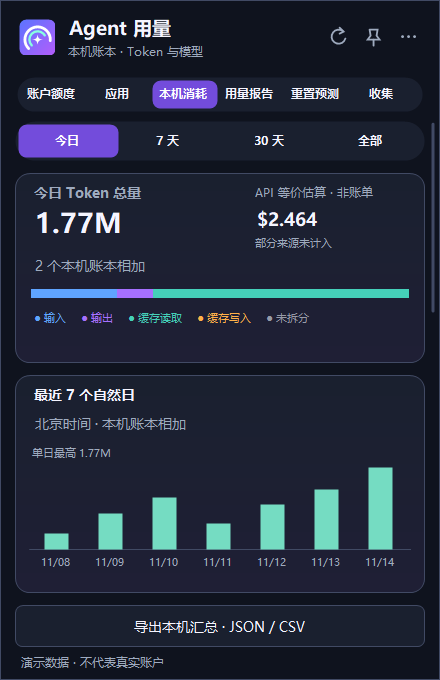
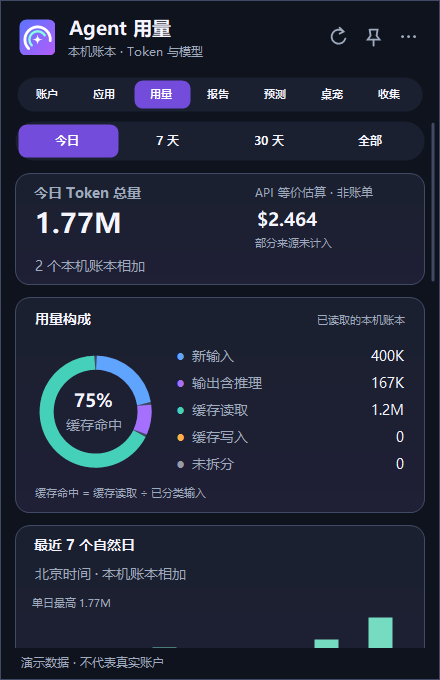
更新 Alpha 37 用量构成与验证说明

diff --git a/windows/PORT_PLAN.md b/windows/PORT_PLAN.md
@@ -8,7 +8,7 @@
 | --- | --- | --- |
 | 托盘入口、余量与交互 | 无边框弹层、外部点击及 Esc 收起、固定与更多菜单；数字图标可选来源或自动最低余量，过期数据回退；额度环超过四个时分页切换；细滚动轨道独立裁剪并验证拖动 | 实机验证隐藏图标、菜单、圆角阴影、退出清理、多屏和高 DPI；继续打磨小尺寸表现 |
 | 账户额度 | Codex 已在本机实测；Kimi 本地服务、Claude Code 凭据、MiniMax 和 DeepSeek API 余额通过模拟测试；已加入默认关闭的 WorkBuddy 独立网页登录及积分查询，主动输入密钥的智谱和火山方舟 Coding Plan 额度，以及独立网页登录的 MiMo 平台余额和套餐（模拟验证） | 验证托盘开关交互及真实 Windows 账户和 WorkBuddy 登录；Qoder 中国区独立网页登录和只读额度已模拟验证，真实登录尚待验收；TRAE 中国区独立登录与只读额度正以模拟数据验证；继续适配即梦及其他原项目来源 |
-| 应用和本机消耗 | 多个本地账本、四个统计周期、模型排行、趋势及近 24 小时应用活动汇总已接入；额度、本机 Token、活动来源状态按应用汇总，并支持筛选和展开。应用页可见时单独刷新本机活动；Qoder 本机积分独立计量，并在账户页提供明确标注的本机消耗卡片 | 验证应用概览、定时刷新、趋势与排行界面；完善客户端路径、项目归因、历史导入和重复计数规则 |
+| 应用和本机消耗 | 多个本地账本、四个统计周期、Token 构成圆环、缓存命中、模型排行、趋势及近 24 小时应用活动汇总已接入；额度、本机 Token、活动来源状态按应用汇总，并支持筛选和展开。应用页可见时单独刷新本机活动；Qoder 本机积分独立计量 | 验证真实账本、应用概览、定时刷新、趋势与排行界面；完善客户端路径、项目归因、历史导入和重复计数规则 |
 | 模型与计费 | 使用上游内置价格和固定回退汇率，展示逐账本的今日美元 API 等价估算；支持本机自定义美元价格 | 验证实际账本和价格编辑界面；移植模型目录同步、更多周期、峰谷与汇率设置 |
 | 七套主题与卡片 | 七种配色、连续胶囊导航和服务语义图形已接入；账户页保留双周期仪表，其他页使用紧凑头部。账户时钟可见时按分钟更新。钱包、积分、套餐和 Codex 重置卡到期明细整合进对应卡片；本机汇总和逐日趋势明确未按账户区分 | 对照上游逐套实机检查与完善材质、动效、账户卡片、多账户归因和自适应布局；仍未达到完整视觉一致 |
 | 通知与自动领取 | 低额度提醒默认关闭，可在托盘菜单开启并选择 10%、20%、30% 或 50% 阈值；同周期去重和过期快照过滤已做模拟测试；新增独立的 Codex 重置卡到期提醒 | 实机验证 Windows 通知；继续移植积分和订阅提醒；自动领取默认关闭，逐平台验证写操作与授权 |
@@ -20,6 +20,8 @@
 | 中文体验与文档 | 中文首页、快速使用、安全和贡献说明正在调整；英文作为辅助 | Windows 新代码的说明与注释以中文为主，保证 README、实际行为及下载版本一致 |
 
 ## 当前证据和限制
+
[1 lines of base64/hex data omitted]
 
[1 lines of base64/hex data omitted]
 

diff --git a/README.en.md b/README.en.md
@@ -32,6 +32,7 @@ The panel previews use fictional data on an isolated Windows runner. The default
 - **Account switches** — enable or disable supported account lookups independently from the tray menu. Local history is unaffected. The per-user preferences contain only switches, never credentials; MiniMax, DeepSeek, WorkBuddy, ZCode, Volcengine, MiMo, Qoder and TRAE are off by default.
 - **Low-quota alerts** — optionally enable Windows notifications below a selectable 10%, 20%, 30%, or 50% threshold (20% by default); stale data and repeat alerts for the same window are suppressed. Alerts default to off, and actual notification display still needs device testing. A separate opt-in alerts for available Codex reset cards within three days and one day of expiry.
 - **Desktop pet (in development)** — includes the upstream Mochi and Bit sprites and five 3D characters, hidden by default. The pet page offers appearance choices, a visibility switch and a live preview while the desktop pet is shown. 3D characters respond to clicks, dragging, release and refresh, with optional cursor following off by default; rendering requires WebView2. Physical-device interaction and performance remain unverified.
+- **Usage composition** — the local usage page shows an input, output and cache breakdown with a cache-hit ring when the available totals reconcile. Unclassified tokens suppress the cache-hit percentage; local ledgers can overlap.
 - **Appearance** — choose from seven named palettes and card styles in the tray menu; the choice is remembered. The Windows port does not yet reproduce all macOS materials or animations, and visual review is ongoing.
 - **Codex account** — shows quota windows, reset times, credits and reset cards when the Codex account service returns them. A missing value is not treated as zero.
 - **Grouped accounts** — quota windows from the same provider share one card for easier comparison. The new layout needs device testing.

diff --git a/windows/CHANGELOG.md b/windows/CHANGELOG.md
@@ -1,5 +1,11 @@
 # Windows 更新记录
 
+## 0.1.0-alpha.37 · 2026-11-16
+
+- 本机消耗页新增 Token 构成圆环与数值，展示新输入、输出含推理、缓存读取、缓存写入和未拆分；悬停可查看完整数量。
+- 缓存命中按缓存读取除以新输入、缓存读写之和计算；未拆分 Token、空值、负数或总数不一致时，不虚构完整比例。
+- 模拟账本、异常和缺失情况通过检查；深浅主题、窄弹层及发布包已在隔离环境核对，真实账本与实体设备仍待验收。
+
 ## 0.1.0-alpha.36 · 2026-11-16
 
 - 桌宠显示时，弹层桌宠页同步形象画面与当前状态；隐藏后恢复静态预览，复用现有桌宠渲染器。
